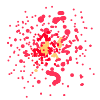
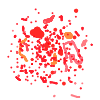
added more blood

diff --git a/TurtleGun2/Obstacle.java b/TurtleGun2/Obstacle.java
@@ -11,6 +11,7 @@ public class Obstacle {
     private double DIFFICULTY_INCREACE = 0.3;
     private int OBSTACLE_PROBABILITY = 100;
     private int NUM_IMAGES = 3;
+    private int NUM_BLOOD = 3;
     private int MAX_OBSTACLES = 20;
     private int MAX_DIFFICULTY = 15;
     //This is the minimum at difficulty 1, but it changes as the difficulty increaces
@@ -29,10 +30,10 @@ public class Obstacle {
     private double difficulty = 1;
     private boolean obstacleVisible[] = new boolean [MAX_OBSTACLES];
     private boolean obstacleHit[] = new boolean [MAX_OBSTACLES];
-    private Image[] obstacleImages = new Image[NUM_IMAGES];
+    private Image obstacleImages[] = new Image[NUM_IMAGES];
     
     //Internal variables
-    private Image bloodCloud = (new ImageIcon(this.getClass().getResource("Blood1.png"))).getImage();
+    private Image bloodCloud[] = new Image[NUM_BLOOD];
     private Random number = new Random();
 
 //----------------------------------------------------------------------------------------
@@ -47,6 +48,9 @@ public class Obstacle {
         obstacleImages[1] = two.getImage();
         ImageIcon three = new ImageIcon(this.getClass().getResource("Obstacle3.png"));
         obstacleImages[2] = three.getImage();
+        bloodCloud[0] = (new ImageIcon(this.getClass().getResource("Blood1.png"))).getImage();
+        bloodCloud[1] = (new ImageIcon(this.getClass().getResource("Blood2.png"))).getImage();
+        bloodCloud[2] = (new ImageIcon(this.getClass().getResource("Blood3.png"))).getImage();
     }
 
 //----------------------------------------------------------------------------------------
@@ -81,7 +85,7 @@ public class Obstacle {
     public void removeObstacle(int obstacleNumber) {
         if ((obstacleNumber >= 0) && (obstacleNumber < MAX_OBSTACLES)) {
             obstacleHit[obstacleNumber] = true;
-            obstacleImage[obstacleNumber] = bloodCloud;
+            obstacleImage[obstacleNumber] = bloodCloud[number.nextInt(NUM_BLOOD)];
         }
     }
     
